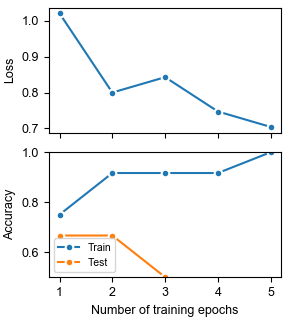
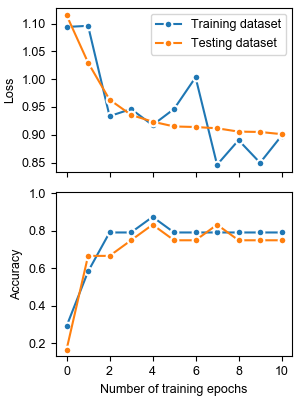
Updated README and images:

Changed region(s): [[0.0, 0.4673, 0.9965, 0.9969], [0.0, 0.0, 0.9965, 0.4361]]

diff --git a/README.md b/README.md
@@ -19,13 +19,13 @@ The best entry points to this package are the study scripts which are described 
 This package has been reorganized from the previous study scripts to use a common entry point. Now, the module has a training and inference mode. 
 
 ### Training
-Issuing the following command via ipython will train the model for 5 epochs:
+Issuing the following command via ipython will train the model for 10 epochs:
 ```
-%run -m wavetorch train --N_epochs 5 --batch_size 3 --train_size 12 --test_size 12
+%run -m wavetorch train --design_region --binarized --gender both --N_epochs 10 --test_size 12 --train_size 24
 ```
 Alternatively, training can be performed directly from the command line by issuing the command
 ```
-python -m wavetorch train --N_epochs 5 --batch_size 3 --train_size 12 --test_size 12
+python -m wavetorch train --design_region --binarized --gender both --N_epochs 10 --test_size 12 --train_size 24
 ```
 Many additional options are available for training and these will be printed to the screen when the `-h` or `--help` flags are issued:
 ```
@@ -97,20 +97,20 @@ After issuing the above command, the model will be optimized and the progress wi
 ### Inference
 The following command can be issued to load a previously saved model file:
 ```
-%run -m wavetorch inference --model <PATH_TO_MODEL>
+%run -m wavetorch inference --name <PATH_TO_MODEL>
 ```
 Alternatively, training can be performed directly from the command line by issuing the command
 ```
-python -m wavetorch inference --model <PATH_TO_MODEL>
+python -i -m wavetorch inference --name <PATH_TO_MODEL>
 ```
 
 Adding the `--show` option will display the distribution of the wave speed, like so:
 ![](../master/img/c.png)
 
-Adding the `--hist` option will display the training history, if it was saved with the model, like so:
+Adding the `--hist` option will display the training history, like so:
 ![](../master/img/hist.png)
 
-Adding the `--cm` option will display the training and testing set confusion matrics which were saved from the training run:
+Adding the `--cm` option will display the confusion matrix over the training and testing datasets, like so:
 ![](../master/img/cm.png)
 
 Adding the `--fields` option will display an integrated field distribution for the vowel classes, along with spectral information for the time series data, like so:
